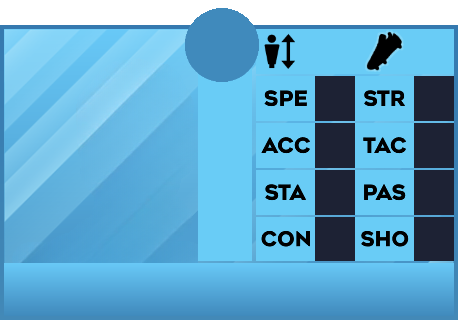
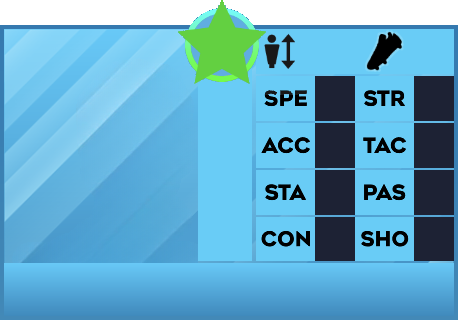
update

Changed region(s): [[0.3974, 0.0, 0.5808, 0.2812]]

diff --git a/DLS23/script.js b/DLS23/script.js
@@ -102,7 +102,7 @@ function drawCard() {
         ctx.drawImage(images.playerImage, 18, 37, 224, 224);
         ctx.drawImage(images.positionImage, 202, 91);
         ctx.drawImage(images.flagImage, 202, 127, 46, 29);
-        // if (checked('maxed')) ctx.drawImage(images.starImage, 178, 0);
+        if (checked('maxed')) ctx.drawImage(images.starImage, 178, 0);
 
         // First Name
         ctx.textAlign = 'center'
@@ -145,7 +145,7 @@ function drawCard() {
         }
 
         // Rating Circle
-        // if (!checked('maxed')) {
+        if (!checked('maxed')) {
         ctx.beginPath();
         ctx.arc(222, 45, 31, 0, 2 * Math.PI);
         if (value('rating') > 0 && value('rating') <= 59) {
@@ -160,7 +160,7 @@ function drawCard() {
             ctx.fillStyle = '#5797d1';
         }
         ctx.fill();
-        // }
+        }
 
         // Rating
         ctx.fillStyle = '#ffffff';
@@ -170,7 +170,7 @@ function drawCard() {
 
         // Height
         ctx.textAlign = 'left'
-        ctx.fillStyle = /**checked('maxed')**/false && value('cardType') == 'legendary' ? '#ffffff' : '#000000';
+        ctx.fillStyle = checked('maxed')false && value('cardType') == 'legendary' ? '#ffffff' : '#000000';
         ctx.font = boldText + '22px Renogare';
         ctx.letterSpacing = '0px';
         ctx.fillText(value('height'), 303, 59);

diff --git a/DLS23/index.html b/DLS23/index.html
@@ -55,10 +55,8 @@
                     Common
                 </option>
             </select>
-            <!--
             Maxed
             <input id="maxed" type="checkbox" onchange="clearCard();">
-            -->
             Height
             <input id="height" max="999" min="1" type="number" value="170">
             Foot
